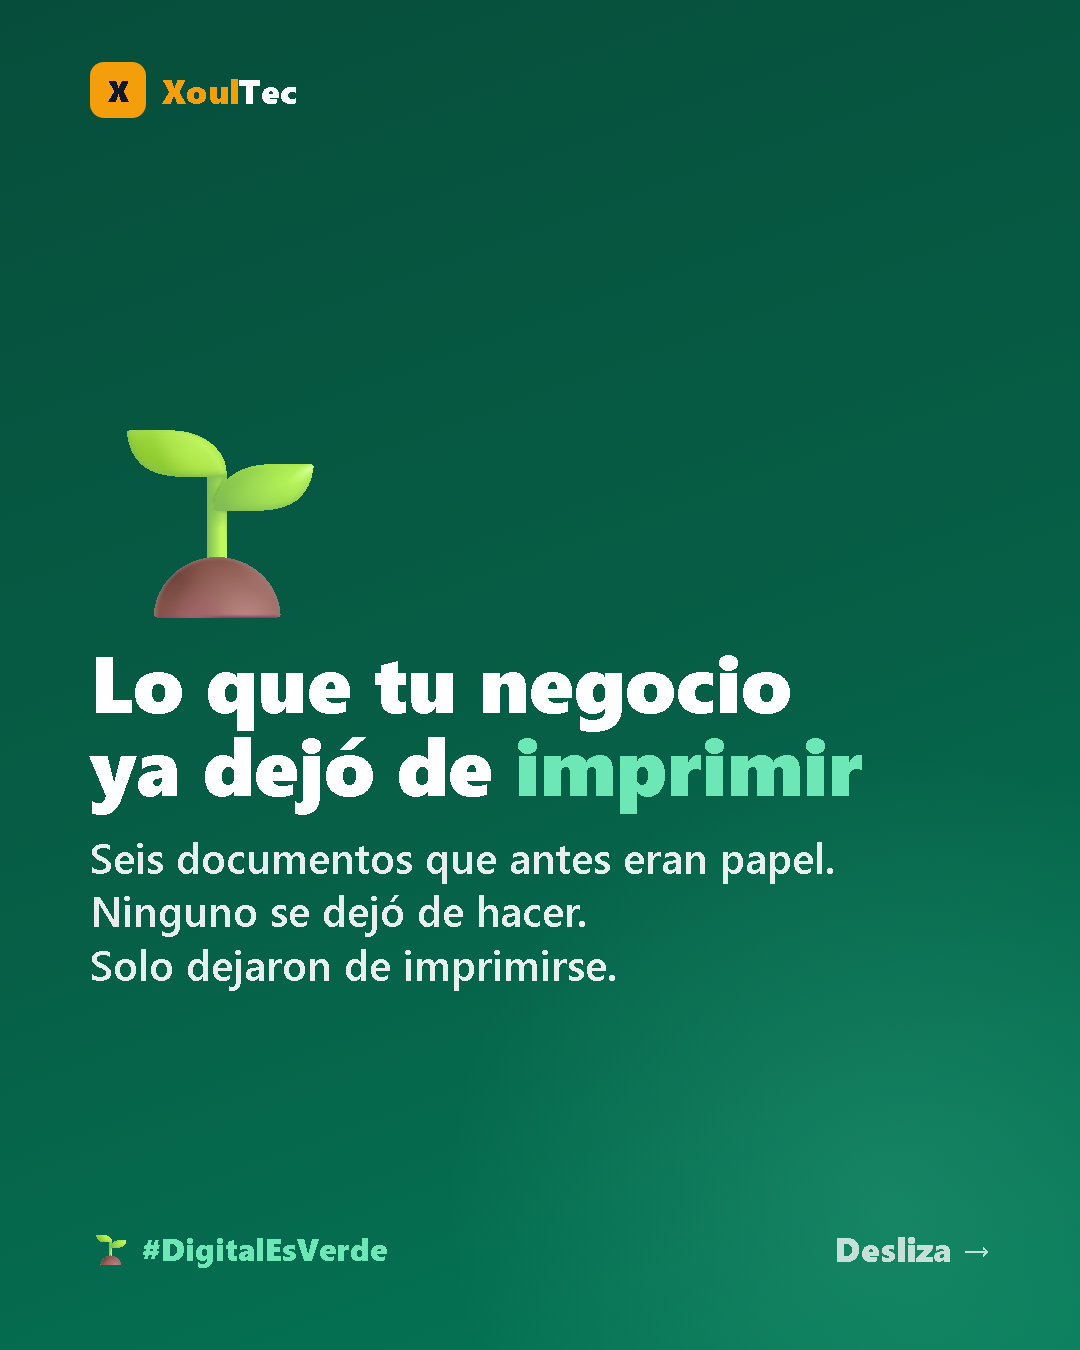
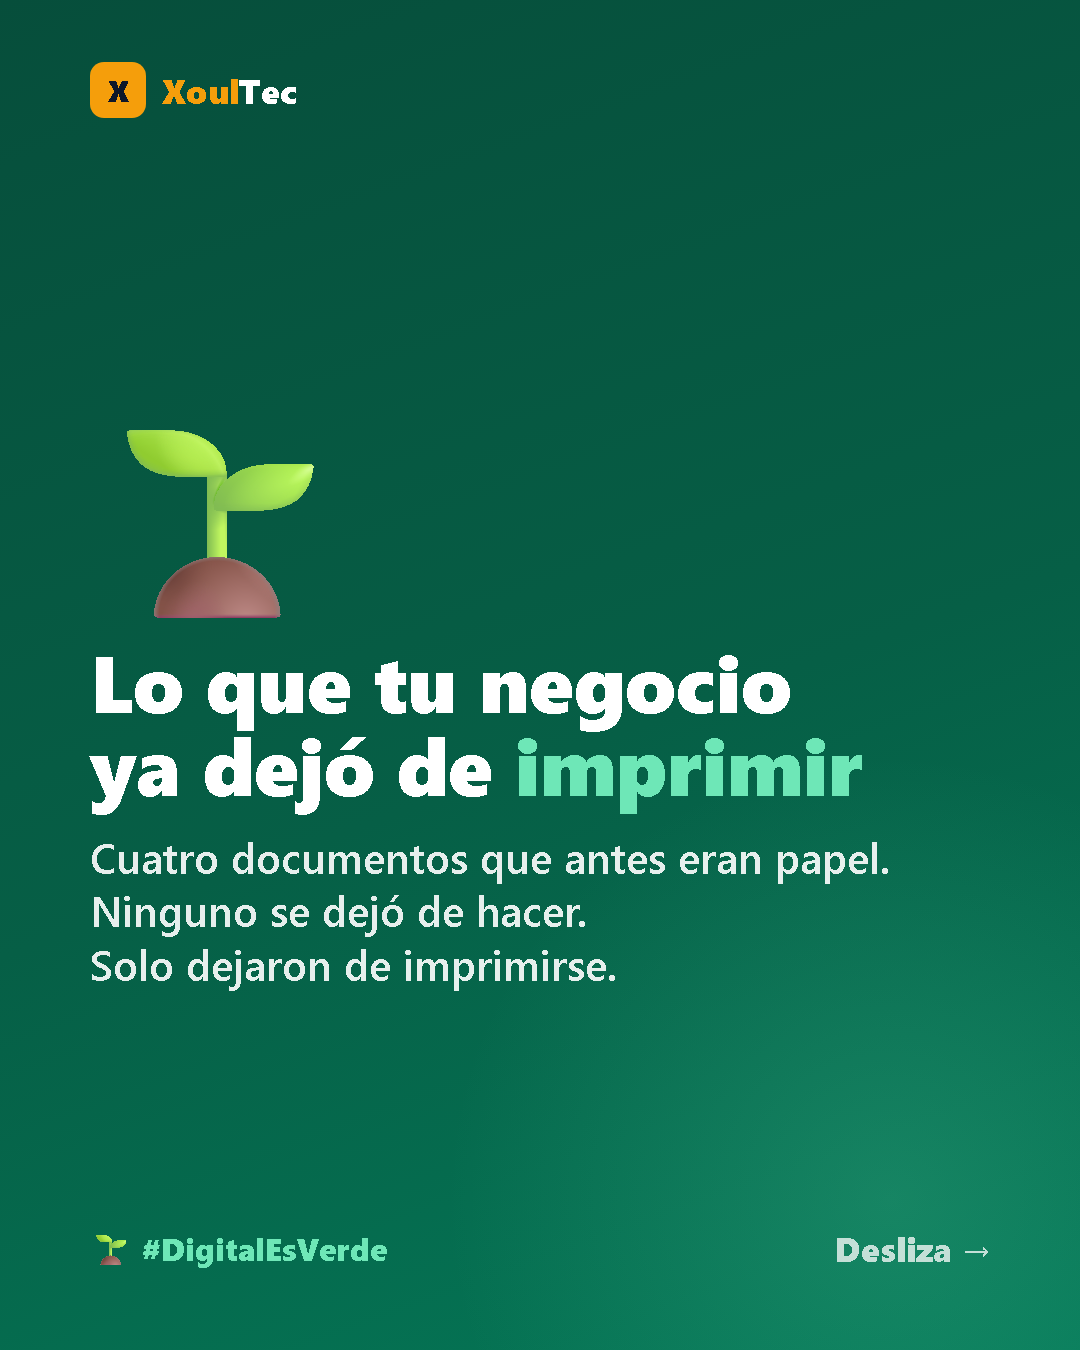
feat(marketing): publica la primera mitad de la serie verde antes/hoy
Instagram web trunca el carrusel en 10 laminas sin avisar: la serie completa (14)
no cabe en un post. Salieron portada + entregas 2-5 + cierre. El numero de
documentos de la portada pasa a ser parametro (?docs=Cuatro) porque tiene que
coincidir con las entregas de cada carrusel.

Changed region(s): [[0.0917, 0.6222, 0.825, 0.6533]]

diff --git a/marketing/instagram/post-graphics-src/gogreen-antes-hoy.html b/marketing/instagram/post-graphics-src/gogreen-antes-hoy.html
@@ -99,12 +99,17 @@
         hoy:  { icon:'📲', h:'El pedido entra<br>desde el <span class="hl">celular</span>', s:'El vendedor lo toma frente al cliente<br>y ya está en el sistema.' } }
     ];
 
+    const p = new URLSearchParams(location.search);
+
     // ---- Láminas de apertura y cierre del carrusel completo (?slide=) ----
+    // ⚠ Instagram corta el carrusel en 10 láminas, así que la serie no cabe entera
+    // en un post. El número de la portada es parámetro (?docs=Cuatro) porque tiene que
+    // coincidir con las entregas que realmente van en ESE carrusel.
     const ESPECIALES = {
       portada: {
         html: `<span class="icon">🌱</span>
                <h1>Lo que tu negocio<br>ya dejó de <span class="hl">imprimir</span></h1>
-               <div class="sub">Seis documentos que antes eran papel.<br>Ninguno se dejó de hacer.<br>Solo dejaron de imprimirse.</div>`,
+               <div class="sub">${p.get('docs') || 'Seis'} documentos que antes eran papel.<br>Ninguno se dejó de hacer.<br>Solo dejaron de imprimirse.</div>`,
         foot: `<div class="tag">🌱 #DigitalEsVerde</div><div class="swipe">Desliza →</div>`,
       },
       cierre: {
@@ -115,7 +120,6 @@
       },
     };
 
-    const p = new URLSearchParams(location.search);
     const especial = ESPECIALES[p.get('slide')];
     if (especial) {
       document.body.classList.add('hoy');

diff --git a/marketing/instagram/posts-programar.md b/marketing/instagram/posts-programar.md
@@ -473,7 +473,25 @@ solo señalamos una consecuencia directa del producto.
 
 ---
 
-## 🌱 Serie "antes/hoy" COMPLETA — **CARRUSEL de 14 láminas** 1080×1350
+## ✅ PUBLICADO — 2026-08-13 · Serie verde "antes/hoy", primera mitad
+`Db-5WWLDtXO` · 10 láminas: portada + entregas **2, 3, 4 y 5** + cierre. Recorte 4:5, filtro Original,
+sin ubicación ni colaboradores. Caption 473/2.200 car.
+
+### 🔧 INSTAGRAM CORTA EL CARRUSEL EN 10 LÁMINAS
+El plan era sacar la serie entera (14 láminas) en un post. **No cabe: el web trunca en 10 sin avisar.**
+Se detectó a tiempo porque el borrador terminaba en un **ANTES sin su HOY** — el peor corte posible
+para esta serie. Rubén eligió un post de 10 bien cerrado en vez de partirlo en dos.
+
+⚠ **La portada lleva el número de documentos como parámetro** (`?slide=portada&docs=Cuatro`) justo
+por esto: tiene que coincidir con las entregas que van en ESE carrusel. Si se arma otro, hay que
+re-renderizarla con su número.
+
+**Pendiente:** entregas **6** (estado de cuenta → portal 24/7) y **7** (pedido en papel → celular)
+para el próximo post verde, con su propia portada (`docs=Dos`) y el mismo cierre.
+
+---
+
+## 🌱 Serie "antes/hoy" — **CARRUSEL** 1080×1350 (guion completo)
 
 > ✅ **APROBADO (Rubén, 12-ago-2026).** Pidió sacar la serie completa de una vez. Se resolvió como
 > **un solo carrusel** en vez de 7 posts seguidos: así sale entera y sigue contando como **1 post
